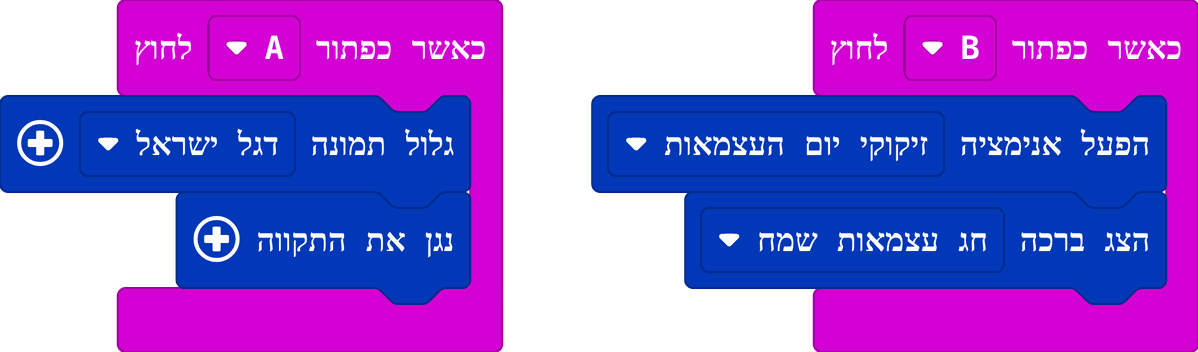
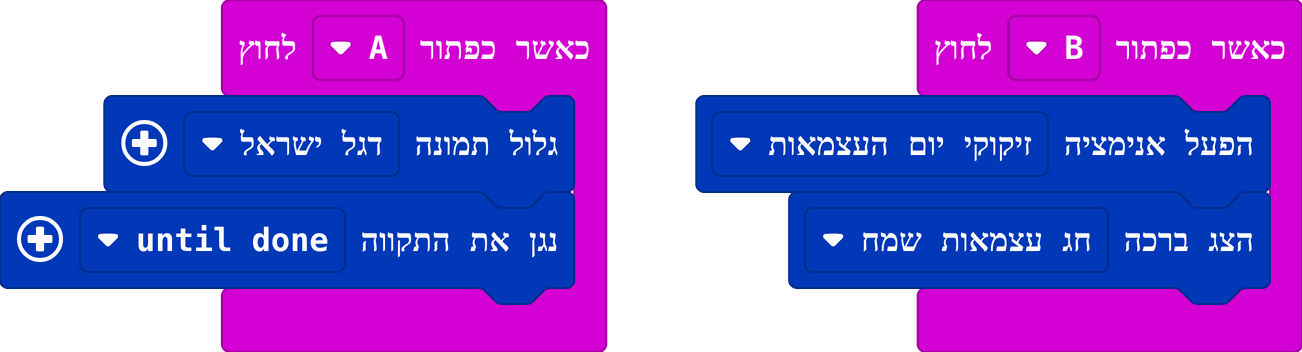
Document playing songs in the background
Claude-Session: https://claude.ai/code/session_019kNNwD3LTNhCYU1fh6vXAZ

diff --git a/README.md b/README.md
@@ -75,7 +75,7 @@ for (let night = 0; night <= 7; night++) {
 בדוגמה, הלולאה גוללת את כל שמונת לילות החנוכה ברצף (הלולאה סופרת מ-0 עד 7, ולכן הלילה הוא המספר ועוד 1).
 
 ### מוזיקה
-<img src="docs/images/music.png" alt="music" width="672">
+<img src="docs/images/music.png" alt="music" width="923">
 
 <details><summary>הצג קוד</summary>
 
@@ -86,7 +86,7 @@ input.onButtonPressed(Button.A, function () {
 })
 input.onButtonPressed(Button.B, function () {
     israel.showSymbol(IsraelSymbol.Dreidel)
-    israel.playSong(IsraeliSong.MaozTzur, 150)
+    israel.playSong(IsraeliSong.MaozTzur, music.PlaybackMode.UntilDone, 150)
 })
 ```
 
@@ -112,6 +112,29 @@ input.onButtonPressed(Button.B, function () {
 המנגינות מתנגנות ברמקול של המיקרוביט, או ברמקול שמחובר לפין 0. בין התווים יש הפסקה קצרה, כך שתווים זהים ברצף נשמעים בנפרד.
 כל שיר מתנגן בקצב הטבעי שלו. בלחיצה על "+" בבלוק אפשר לבחור מהירות באחוזים: 100 רגיל, 50 חצי מהירות, 200 כפול.
 בלוק "קבע קצב" (tempo) של MakeCode משנה את המהירות של כל השירים יחד: 120 הוא הקצב הרגיל.
+
+**מנגנים ומציגים בו זמנית.** כמו בבלוקי המוזיקה של MakeCode, בוחרים בבלוק איך לנגן:
+* **עד הסוף** – התוכנית מחכה שהשיר ייגמר, ורק אז ממשיכה לבלוק הבא.
+* **ברקע** – השיר מתחיל, והתוכנית ממשיכה מיד. כך אפשר להציג טקסט או אנימציה בזמן שהשיר מתנגן.
+* **ברקע בלולאה** – השיר חוזר שוב ושוב, עד ש"עצור את כל הצלילים" או עד ששיר אחר מתחיל.
+<img src="docs/images/music-background.png" alt="music-background" width="664">
+
+<details><summary>הצג קוד</summary>
+
+```blocks
+input.onButtonPressed(Button.A, function () {
+    israel.playSong(IsraeliSong.Sevivon, music.PlaybackMode.InBackground)
+    israel.showHebrew("חנוכה שמח")
+    israel.scrollHanukkiah(8)
+})
+input.onButtonPressed(Button.B, function () {
+    music.stopAllSounds()
+})
+```
+
+</details>
+
+כשמתחיל שיר חדש, השיר הקודם נעצר.
 
 המנגינות שמורות בקובץ `songs.ts`, שנוצר מהגרסה הקריאה שלהן ב-`tools/make_songs.py` (שתי אותיות לכל תו, כדי שהכל ייכנס גם במיקרוביט V1).
 
@@ -390,7 +413,7 @@ basic.showNumber(israel.israelAge(2026))
 מחזיר את גיל מדינת ישראל בשנה שבוחרים.
 
 ## דוגמה: יום העצמאות
-<img src="docs/images/independence-day.png" alt="independence-day" width="599">
+<img src="docs/images/independence-day.png" alt="independence-day" width="651">
 
 <details><summary>הצג קוד</summary>
 
